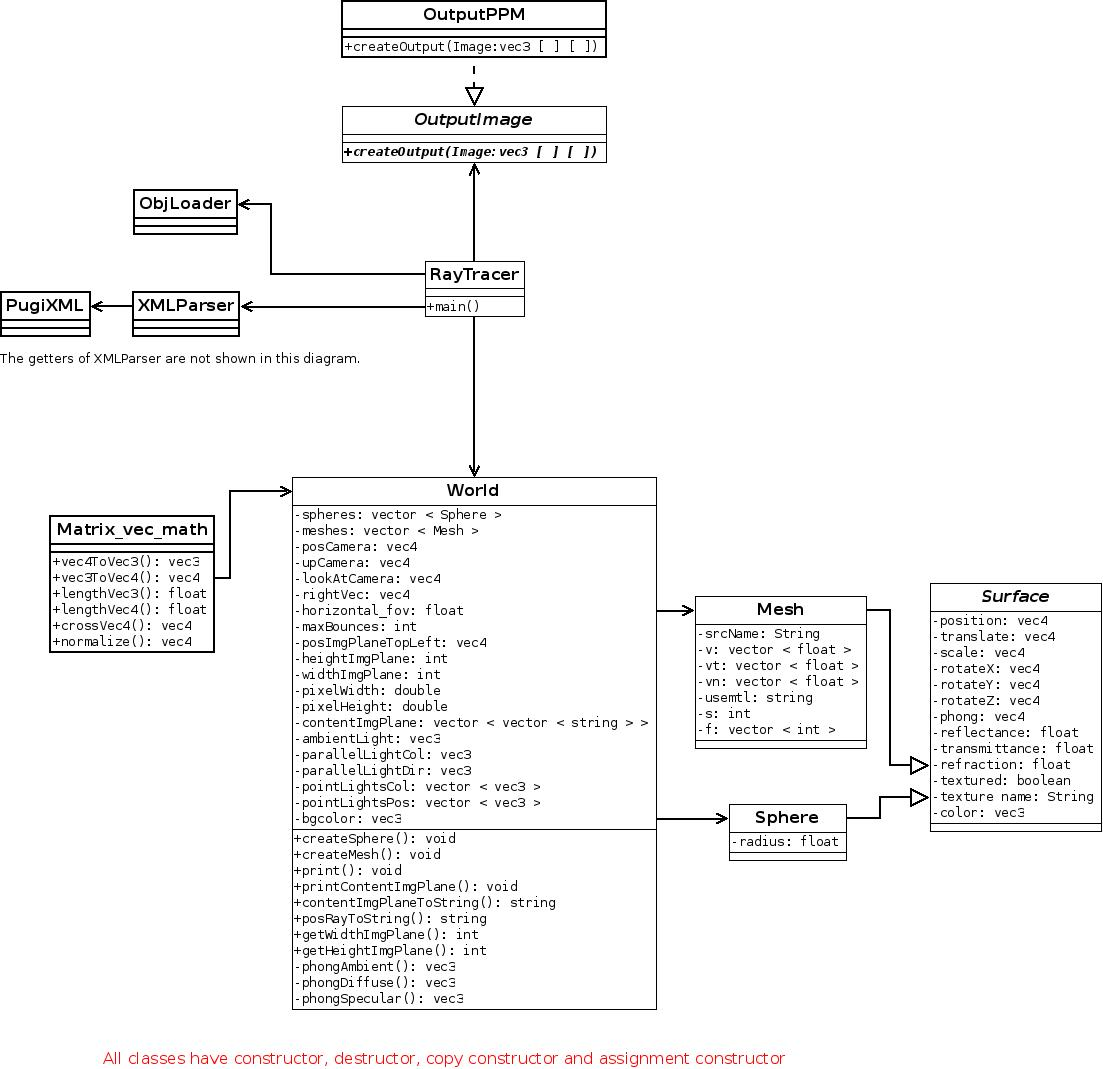
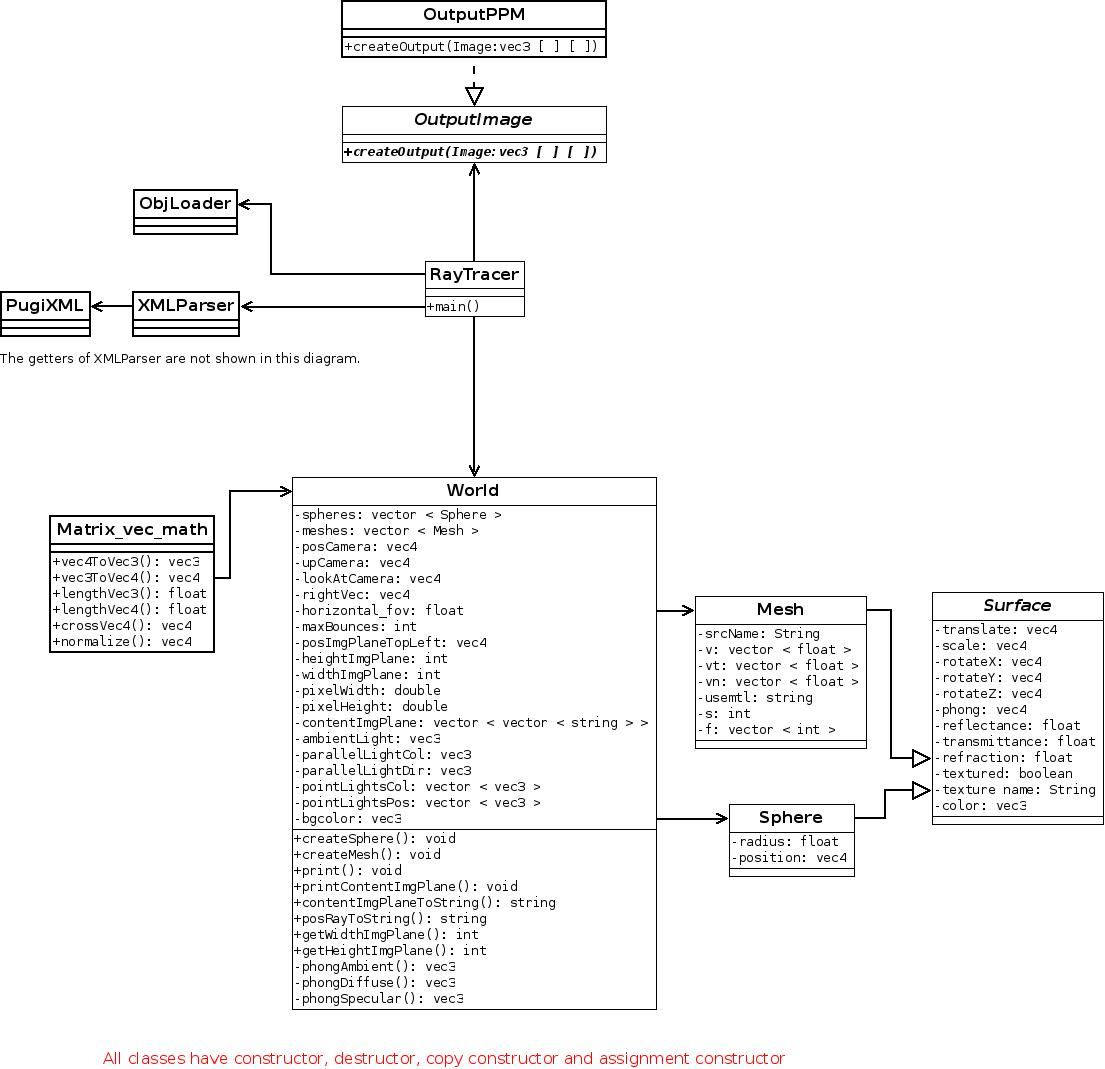
removed attr position from class surface and added it to class sphere

diff --git a/ray_tracer/Surface.h b/ray_tracer/Surface.h
@@ -17,7 +17,6 @@
 
 class Surface{
 protected:
-	glm::vec4 position;
 	glm::vec4 translate;
 	glm::vec4 scale;
 	glm::vec4 rotateX;
@@ -32,7 +31,6 @@ protected:
 	glm::vec3 color;
 
 	Surface( const Surface& surface ){
-		position = surface.position;
 		translate = surface.translate;
 		scale = surface.scale;
 		rotateX = surface.rotateX;
@@ -47,7 +45,6 @@ protected:
 		color = surface.color;
 	};
 	Surface& operator=( const Surface& surface ){
-		position = surface.position;
 		translate = surface.translate;
 		scale = surface.scale;
 		rotateX = surface.rotateX;
@@ -64,8 +61,7 @@ protected:
 	};
 
 public:
-	Surface( glm::vec4 position, glm::vec3 color, glm::vec4 phong, float reflectance, float transmittance, float refraction ) {
-		this->position = position;
+	Surface( glm::vec3 color, glm::vec4 phong, float reflectance, float transmittance, float refraction ) {
 		translate = glm::vec4( 0.0, 0.0, 0.0, 1.0 );
 		scale = glm::vec4( 0.0, 0.0, 0.0, 1.0 );
 		rotateX = glm::vec4( 0.0, 0.0, 0.0, 1.0 );
@@ -82,7 +78,6 @@ public:
 	virtual ~Surface(){ };
 
 	void print(){
-		std::cout << "position: " << glm::to_string(position) << std::endl;
 		std::cout << "translate: " << glm::to_string(translate) << std::endl;
 		std::cout << "scale: " << glm::to_string(scale) << std::endl;
 		std::cout << "rotateX: " << glm::to_string(rotateX) << std::endl;

diff --git a/ray_tracer/Sphere.cpp b/ray_tracer/Sphere.cpp
@@ -11,21 +11,25 @@
 using namespace std;
 
 	Sphere::Sphere( glm::vec4 position, glm::vec3 color, glm::vec4 phong, float reflectance, float transmittance, float refraction, float radius )
-	: Surface( position, color, phong, reflectance, transmittance, refraction ) {
+	: Surface( color, phong, reflectance, transmittance, refraction ) {
 		this->radius = radius;
+		this->position = position;
 	};
 	Sphere::Sphere( const Sphere& sphere ) : Surface( sphere ) {
 		this->radius = sphere.radius;
+		this->position = sphere.position;
 	};
 	Sphere& Sphere::operator=( const Sphere& sphere ) {
 		Surface::operator=( sphere );
 		this->radius = radius;
+		this->position = position;
 		return *this;
 	};
 	Sphere::~Sphere(){ };
 
 	void Sphere::print(){
 		cout << endl << "--sphere--" << endl;
+		cout << "position: " << glm::to_string(position) << std::endl;
 		Surface::print();
 		cout << "radius: " << this->radius << endl;
 		cout << "--end sphere--" << endl;

diff --git a/ray_tracer/Mesh.cpp b/ray_tracer/Mesh.cpp
@@ -15,7 +15,7 @@ using namespace std;
 	Mesh::Mesh( glm::vec4 position, glm::vec3 color, glm::vec4 phong, float reflectance, float transmittance, float refraction, string srcName,
 			vector < glm::vec3 > v, vector < glm::vec3 > vt, vector < glm::vec3 > vn, string usemtl,
 			int s, vector < vector < glm::vec3 > > f )
-	: Surface( position, color, phong, reflectance, transmittance, refraction ) {
+	: Surface( color, phong, reflectance, transmittance, refraction ) {
 		this->srcName = srcName;
 		this->v = v;
 		this->vt = vt;

diff --git a/ray_tracer/Sphere.h b/ray_tracer/Sphere.h
@@ -15,6 +15,7 @@
 
 class Sphere: public Surface{
 	float radius;
+	glm::vec4 position;
 
 public:
 	Sphere( glm::vec4 position, glm::vec3 color, glm::vec4 phong, float reflectance, float transmittance, float refraction, float radius );
